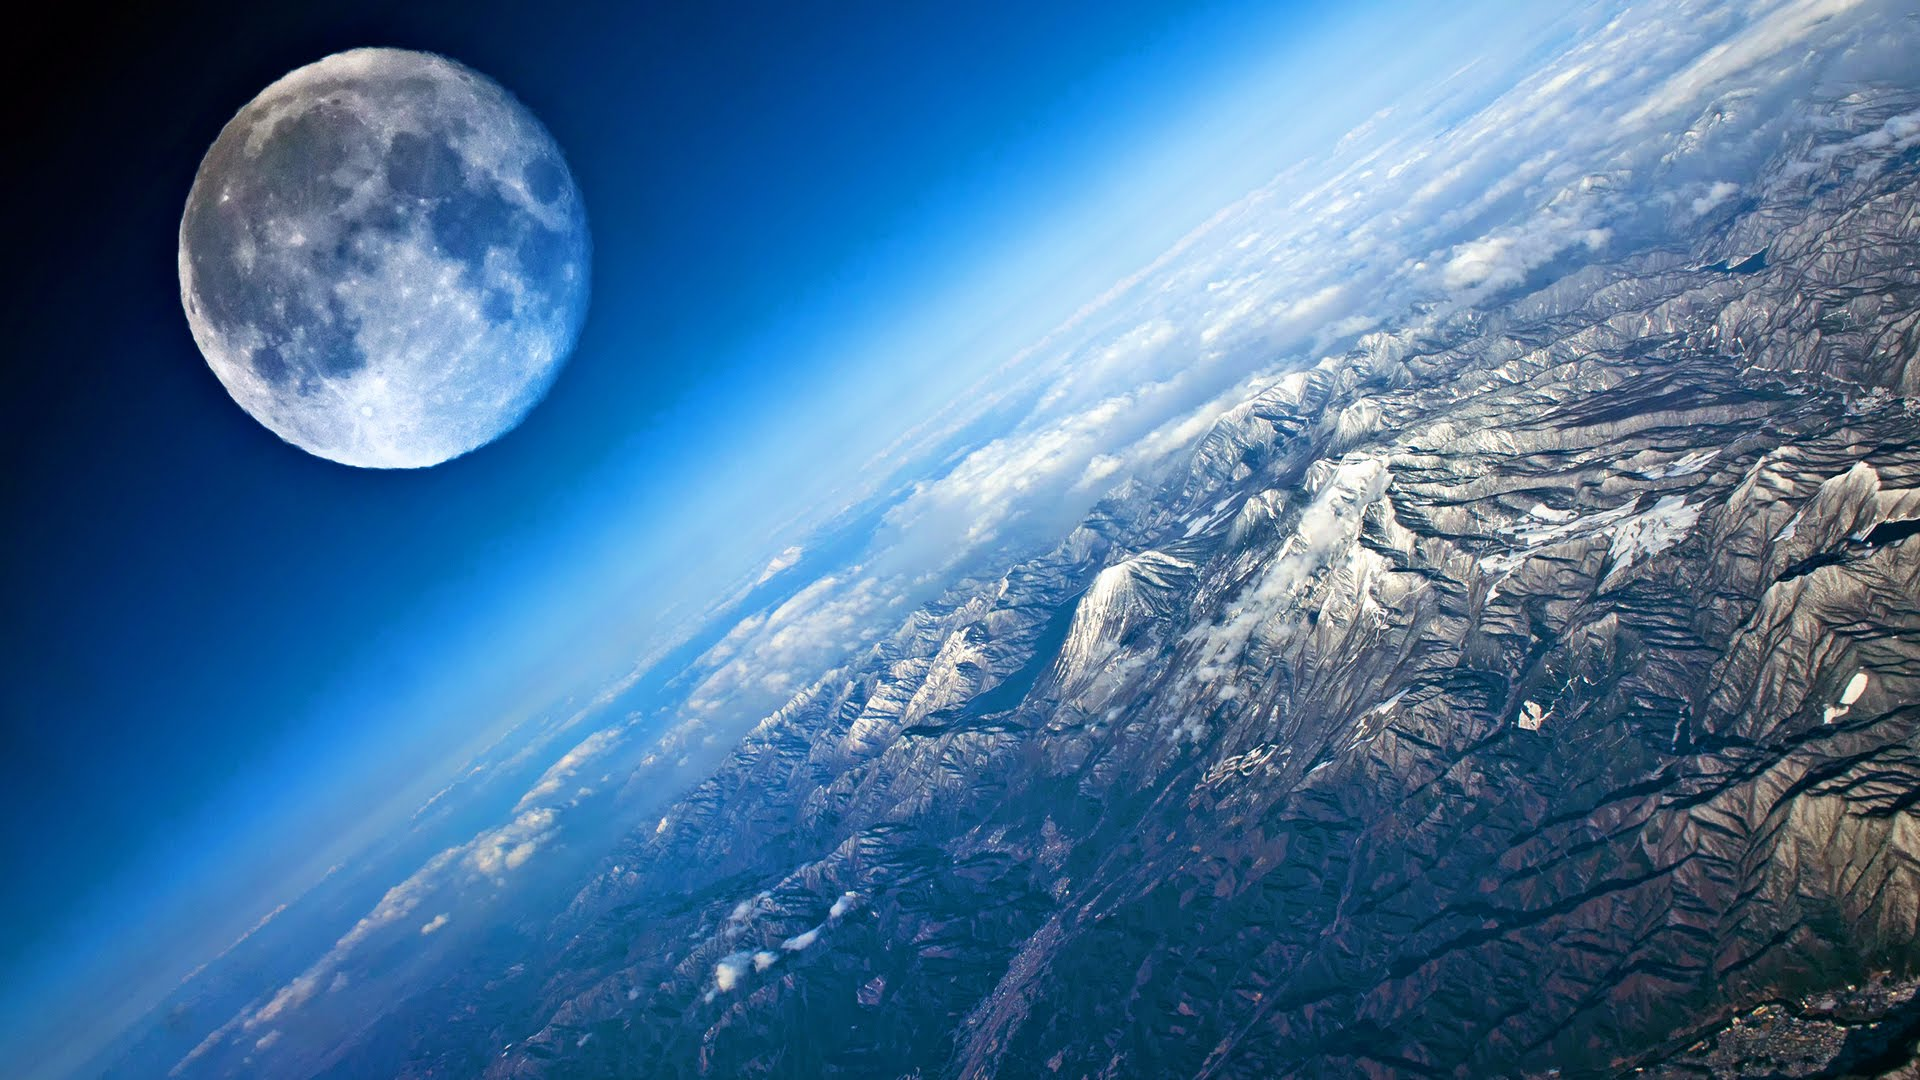
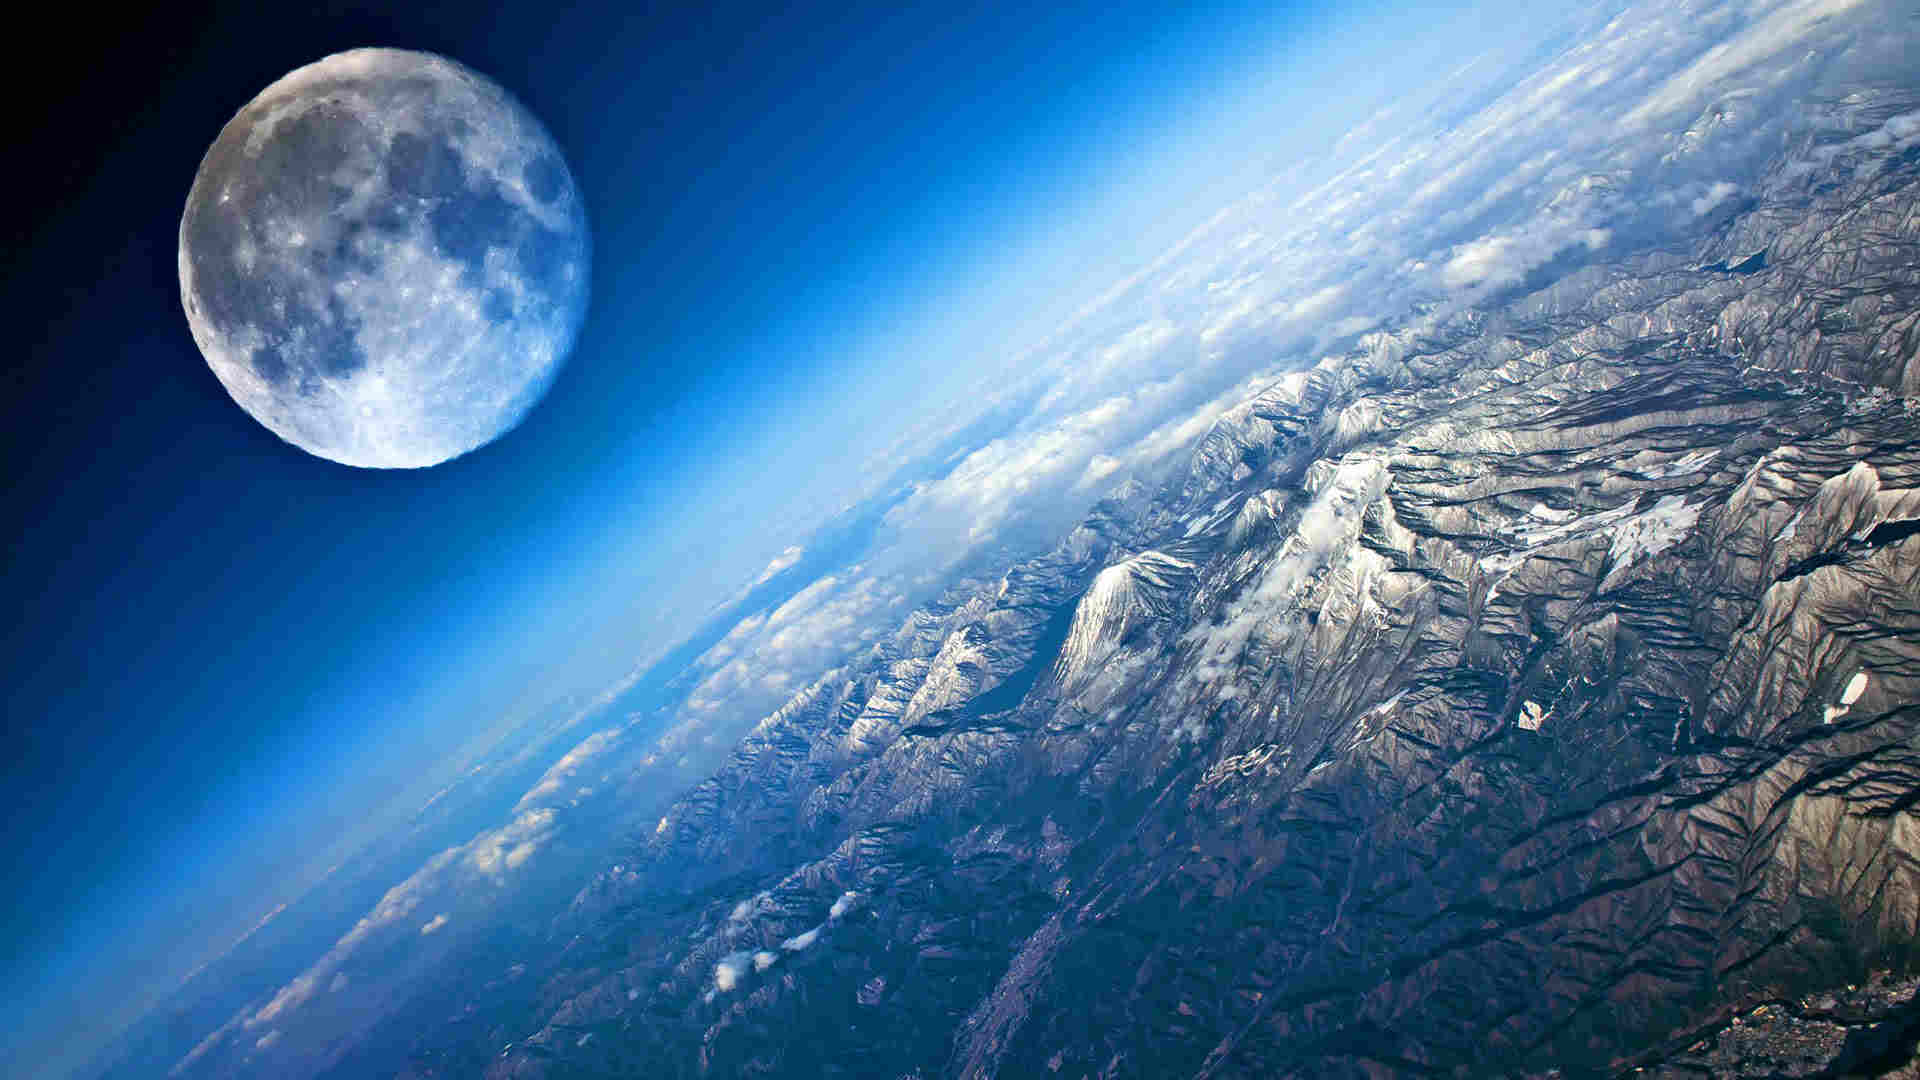
changed jpg quality

Changed region(s): [[0.375, 0.2444, 1.0, 0.7333]]

diff --git a/src/app/app.component.scss b/src/app/app.component.scss
@@ -51,4 +51,10 @@
         opacity: 1;
     }
 }
+
+@media (max-width:500px){
+    .main-body {
+        background-image: url(../assets/images/mobile-background.jpg);
+    }
+}
   
